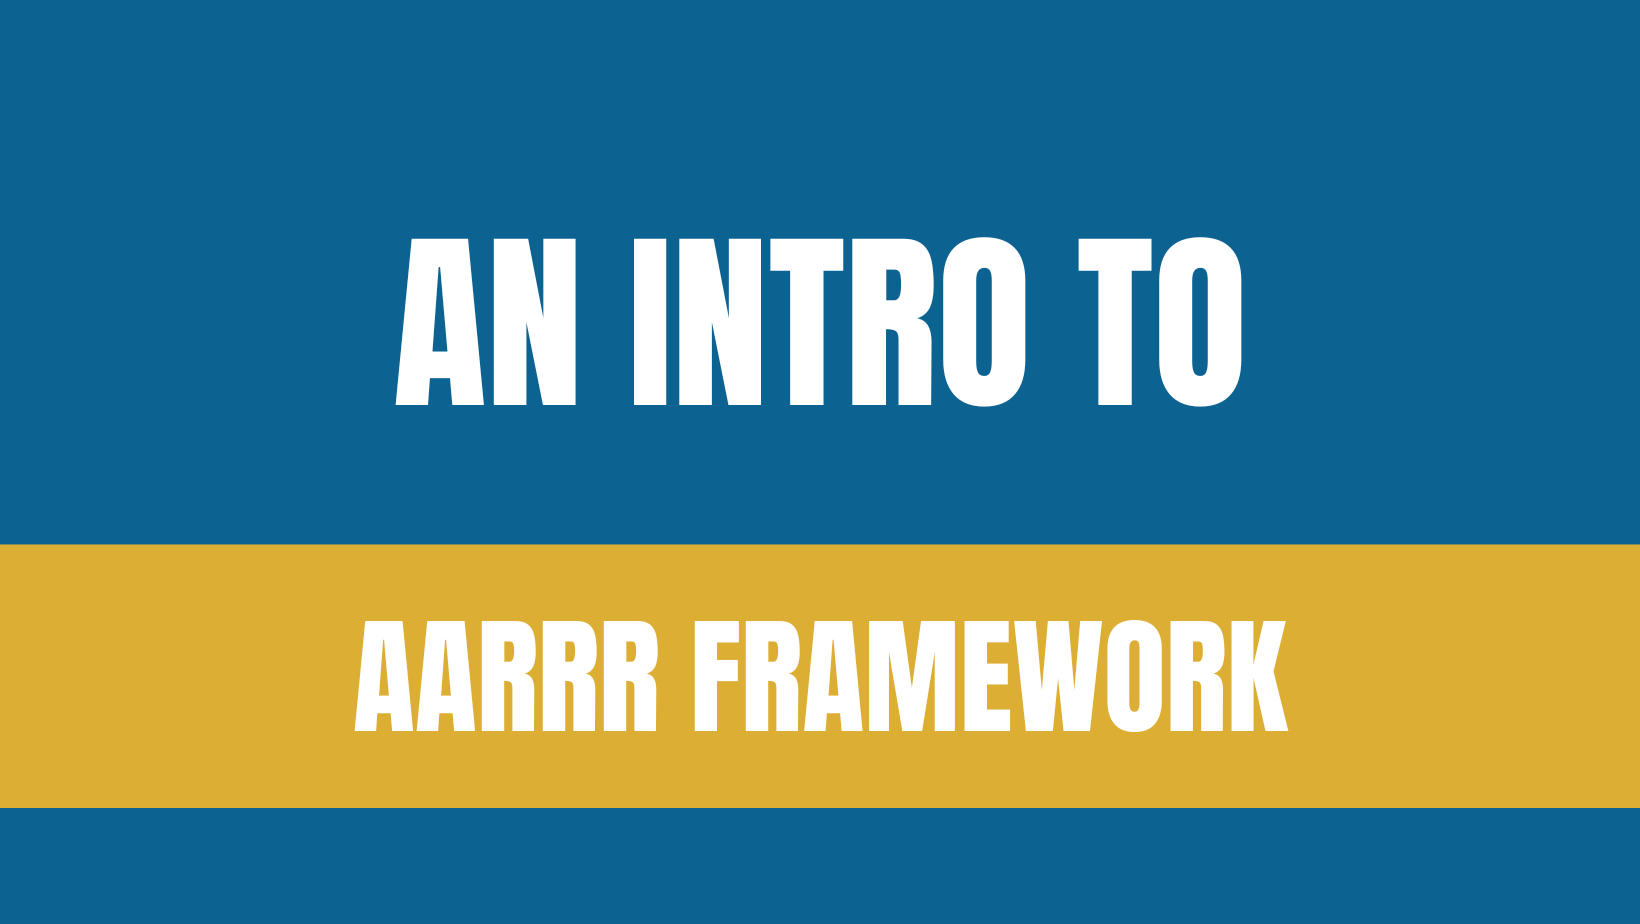
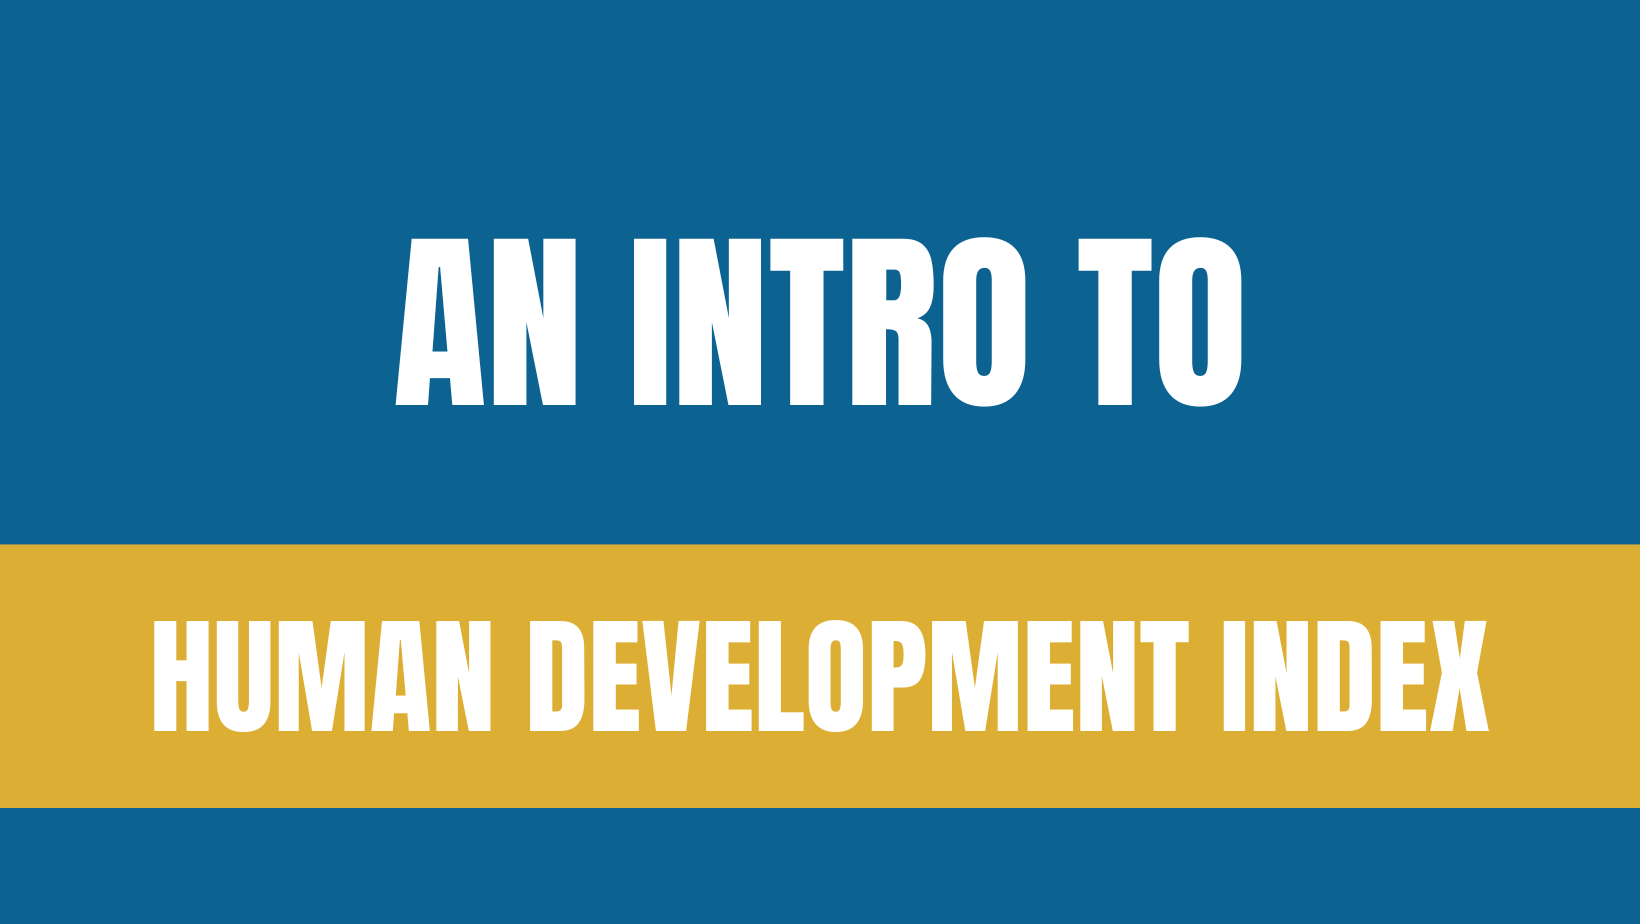
post027

Changed region(s): [[0.0933, 0.6667, 0.9329, 0.7879]]

diff --git a/docs/posts/0027-hdi-index/index.html b/docs/posts/0027-hdi-index/index.html
@@ -7,7 +7,7 @@
 <meta name="viewport" content="width=device-width, initial-scale=1.0, user-scalable=yes">
 
 <meta name="author" content="Vinícius Félix">
-<meta name="dcterms.date" content="2024-12-28">
+<meta name="dcterms.date" content="2024-12-21">
 
 <title>vbfelix - An intro to: Human Development Index</title>
 <style>
@@ -161,7 +161,7 @@ ul.task-list li input[type="checkbox"] {
       <div>
       <div class="quarto-title-meta-heading">Published</div>
       <div class="quarto-title-meta-contents">
-        <p class="date">December 28, 2024</p>
+        <p class="date">December 21, 2024</p>
       </div>
     </div>
     
@@ -178,7 +178,13 @@ ul.task-list li input[type="checkbox"] {
    
   <ul>
   <li><a href="#context" id="toc-context" class="nav-link active" data-scroll-target="#context">Context</a></li>
+  <li><a href="#hdi" id="toc-hdi" class="nav-link" data-scroll-target="#hdi">HDI</a>
+  <ul class="collapse">
   <li><a href="#health" id="toc-health" class="nav-link" data-scroll-target="#health">Health</a></li>
+  <li><a href="#education" id="toc-education" class="nav-link" data-scroll-target="#education">Education</a></li>
+  <li><a href="#economy" id="toc-economy" class="nav-link" data-scroll-target="#economy">Economy</a></li>
+  </ul></li>
+  <li><a href="#final-considerations" id="toc-final-considerations" class="nav-link" data-scroll-target="#final-considerations">Final considerations</a></li>
   </ul>
 </nav>
     </div>
@@ -191,17 +197,33 @@ ul.task-list li input[type="checkbox"] {
 <p>In this post we explore the formula of the Human Development Index (HDI).</p>
 <section id="context" class="level1">
 <h1>Context</h1>
-<p>The Human Development Index (HDI) is a composite statisticused to rank and gauge the social and economic development of nations. As part of its yearly Human Development Report, the United Nations Development Programme (UNDP) created it.</p>
-<p>In 2010 a new version was published, combining three dimensions:</p>
+<p>The Human Development Index (HDI) is a composite statistic used to rank and gauge the social and economic development of nations, created by the United Nations Development Programme (UNDP).</p>
+</section>
+<section id="hdi" class="level1">
+<h1>HDI</h1>
+<p>The HDI consists of the combination from three dimensions:</p>
 <ul>
 <li><p>Health</p></li>
 <li><p>Education</p></li>
 <li><p>Economy</p></li>
 </ul>
-</section>
-<section id="health" class="level1">
-<h1>Health</h1>
-<p>To measure Health the metric choosen was the Life Expectancy Index, given by:</p>
+<p>In this article we will cover the post 2010 version of the metric, given by:</p>
+<p><span class="math display">\[
+\begin{align}
+\mathrm{HDI}
+&amp;=  \sqrt[3]{\mathrm{LEI}\times \mathrm{EI} \times \mathrm{II}},\\
+\end{align}
+\]</span></p>
+<p>where:</p>
+<ul>
+<li><p><span class="math inline">\(\mathrm{LEI}\)</span> = Life expectancy index;</p></li>
+<li><p><span class="math inline">\(\mathrm{EI}\)</span> = Economy index;</p></li>
+<li><p><span class="math inline">\(\mathrm{II}\)</span> = Income index.</p></li>
+</ul>
+<p>Next, we will show how each index it is calculated.</p>
+<section id="health" class="level2">
+<h2 class="anchored" data-anchor-id="health">Health</h2>
+<p>To measure Health the metric choosen was the life expectancy index (LEI), given by:</p>
 <p><span id="eq-lei"><span class="math display">\[
 \begin{align}
 \mathrm{LEI}
@@ -210,16 +232,63 @@ ul.task-list li input[type="checkbox"] {
 \tag{1}\]</span></span></p>
 <p>where:</p>
 <ul>
-<li><p>LE = Life expectancy at birth, in years;</p></li>
-<li><p>20 = Minimum life expectancy threshold, historically observed globally;</p></li>
-<li><p>85 = Maximum life expectancy threshold, historically observed globally.</p></li>
+<li><p><span class="math inline">\(\mathrm{LE}\)</span> = Life expectancy at birth, in years;</p></li>
+<li><p>20 = Minimum life expectancy threshold, historically observed;</p></li>
+<li><p>85 = Maximum life expectancy threshold, historically observed.</p></li>
 </ul>
-<p>Given the <a href="#eq-lei">Equation&nbsp;1</a> a LE of 85 years would mean a LEI of 1, and if a LE is 20 the LEI is zero.</p>
+<p>Given the <a href="#eq-lei">Equation&nbsp;1</a>, a LE of 85 years would mean a LEI of 1, and if the LE is 20 the LEI is zero.</p>
 <div class="cell">
 <div class="cell-output-display">
 <p><img src="index_files/figure-html/unnamed-chunk-1-1.png" class="img-fluid" width="672"></p>
 </div>
 </div>
+</section>
+<section id="education" class="level2">
+<h2 class="anchored" data-anchor-id="education">Education</h2>
+<p>To measure Education the metric choosen was the education index (EI), to understand it, first we need to explore two other metrics.</p>
+<p>First, the Mean Years of Schooling Index (MYSI) given by:</p>
+<p><span id="eq-mysi"><span class="math display">\[ \begin{align} \mathrm{MYSI} &amp;=  \frac{\mathrm{MYS}}{15},\\ \end{align}  \tag{2}\]</span></span></p>
+<p>where</p>
+<ul>
+<li><p><span class="math inline">\(\mathrm{MYS}\)</span> = Mean Years of Schooling, i.e., refers to the average number of completed years of formal education by people aged 25 and older;</p></li>
+<li><p>15 is the projected maximum of this indicator for 2025.</p></li>
+</ul>
+<p>Next, the Expected Years of Schooling Index (EYSI), given by:</p>
+<p><span id="eq-eysi"><span class="math display">\[ \begin{align} \mathrm{EYSI} &amp;=  \frac{\mathrm{EYS}}{18},\\ \end{align}  \tag{3}\]</span></span></p>
+<p>where</p>
+<ul>
+<li><p><span class="math inline">\(\mathrm{EYS}\)</span> = Expected Years of Schooling, i.e., refers to the number of years a child of school entrance age is expected to spend at school, or university, including years spent on repetition.</p></li>
+<li><p>18 is equivalent to achieving a master’s degree in most countries.</p></li>
+</ul>
+<p>Finally, the EI is given by the mean of MYSI and EYSI:</p>
+<p><span id="eq-ei"><span class="math display">\[ \begin{align} \mathrm{EI} &amp;=  \frac{\mathrm{MYSI}+\mathrm{EYSI}}{2},\\ \end{align}  \tag{4}\]</span></span></p>
+<p>where:</p>
+<ul>
+<li><p><span class="math inline">\(\mathrm{MYSI}\)</span> = Mean Years of Schooling Index;</p></li>
+<li><p><span class="math inline">\(\mathrm{EYSI}\)</span> = Expected Years of Schooling Index.</p></li>
+</ul>
+</section>
+<section id="economy" class="level2">
+<h2 class="anchored" data-anchor-id="economy">Economy</h2>
+<p>To measure Economy the metric choosen was the income index (II), given by:</p>
+<p><span class="math display">\[ \begin{align} \mathrm{II} &amp;=  \frac{\ln(\mathrm{GNI_{pc}})-\ln(100)}{\ln(75000)-\ln(100)},\\ \end{align} \]</span></p>
+<p>where:</p>
+<ul>
+<li><p><span class="math inline">\(\ln\)</span> = natural logarithm function;</p></li>
+<li><p><span class="math inline">\(\mathrm{GNI_{pc}}\)</span> = Gross national income at purchasing power parity per capita, in dollars.</p></li>
+</ul>
+<p>So, the Income Index is 1 when <span class="math inline">\(\mathrm{GNI_{pc}}\)</span> is US$75,000 and 0 when is US$100.</p>
+<div class="cell">
+<div class="cell-output-display">
+<p><img src="index_files/figure-html/unnamed-chunk-2-1.png" class="img-fluid" width="672"></p>
+</div>
+</div>
+</section>
+</section>
+<section id="final-considerations" class="level1">
+<h1>Final considerations</h1>
+<p>The HDI provides a broad measure of development by incorporating health, education, and living standards, moving beyond purely economic indicators like GDP. Its simplicity and comparability make it a valuable tool for identifying disparities and and raising awareness about global development challenges.</p>
+<p>However, the HDI has limitations, such as ignoring inequality within countries, oversimplifying complex issues, and excluding critical factors like environmental sustainability, political freedoms, and cultural diversity. Its reliance on national averages can obscure significant regional or demographic disparities, and the quality of its insights depends on reliable data, which may be lacking in some contexts. While the HDI is a useful starting point, it should be complemented with other metrics to fully capture the multifaceted nature of human development.</p>
 
 
 </section>

diff --git a/docs/index.html b/docs/index.html
@@ -198,7 +198,7 @@ ul.task-list li input[type="checkbox"] {
 </section>
 <div class="quarto-listing quarto-listing-container-default" id="listing-listing">
 <div class="list quarto-listing-default">
-<div class="quarto-post image-right" data-index="0" data-categories="product" data-listing-date-sort="1735354800000" data-listing-file-modified-sort="1734296834510" data-listing-date-modified-sort="NaN" data-listing-reading-time-sort="2">
+<div class="quarto-post image-right" data-index="0" data-categories="product" data-listing-date-sort="1734750000000" data-listing-file-modified-sort="1734787899461" data-listing-date-modified-sort="NaN" data-listing-reading-time-sort="4">
 <div class="thumbnail">
 <p><a href="./posts/0027-hdi-index/index.html"> <img src="./posts/0027-hdi-index/banner.png" class="thumbnail-image"> </a></p>
 </div>
@@ -224,7 +224,7 @@ In this post we explore the formula of the Human Development Index (HDI).
 <div class="metadata">
 <a href="./posts/0027-hdi-index/index.html">
 <div class="listing-date">
-Dec 28, 2024
+Dec 21, 2024
 </div>
 <div class="listing-author">
 Vinícius Félix
